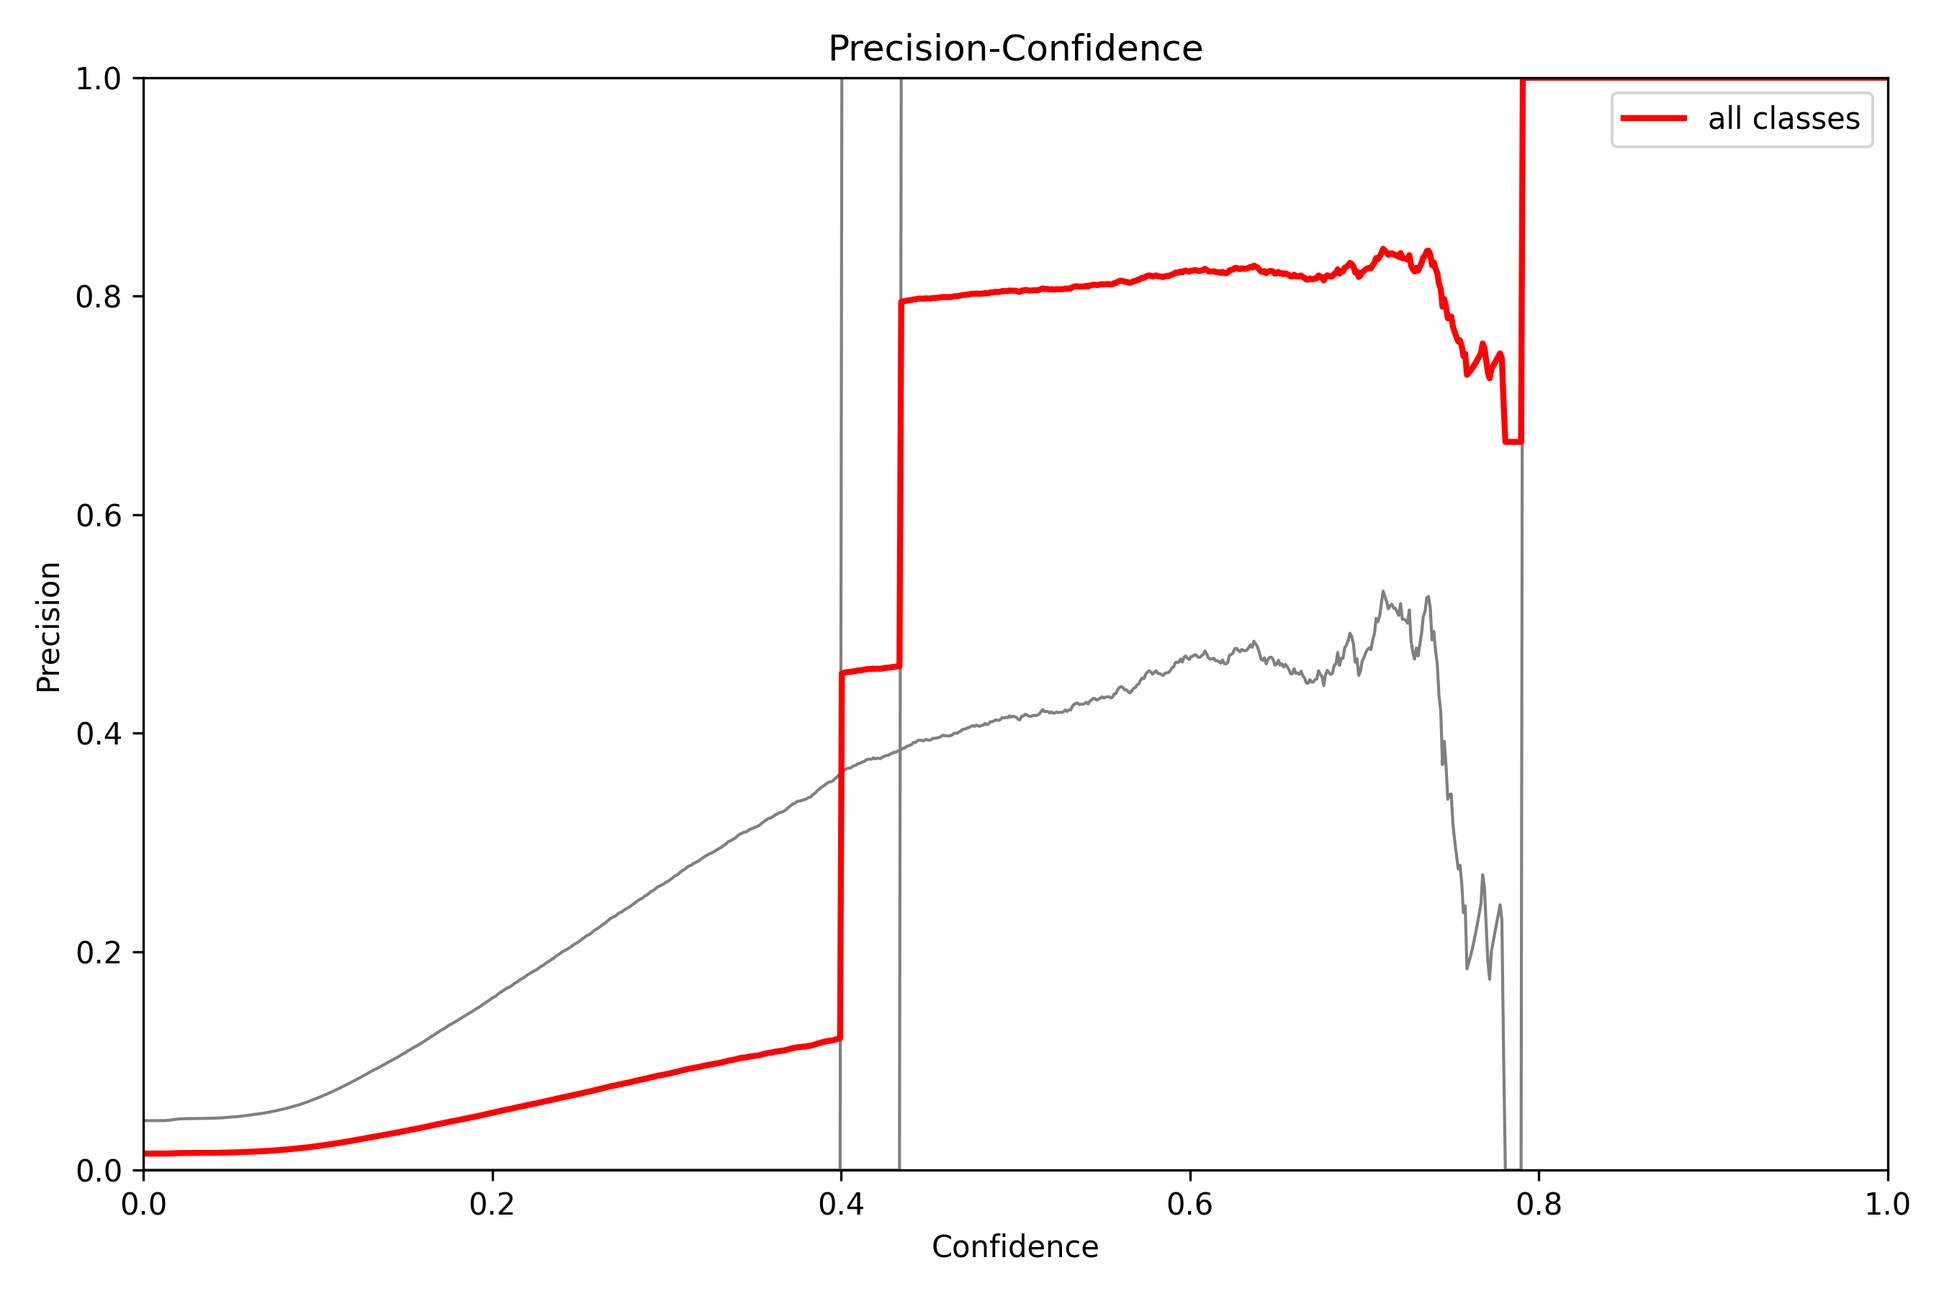
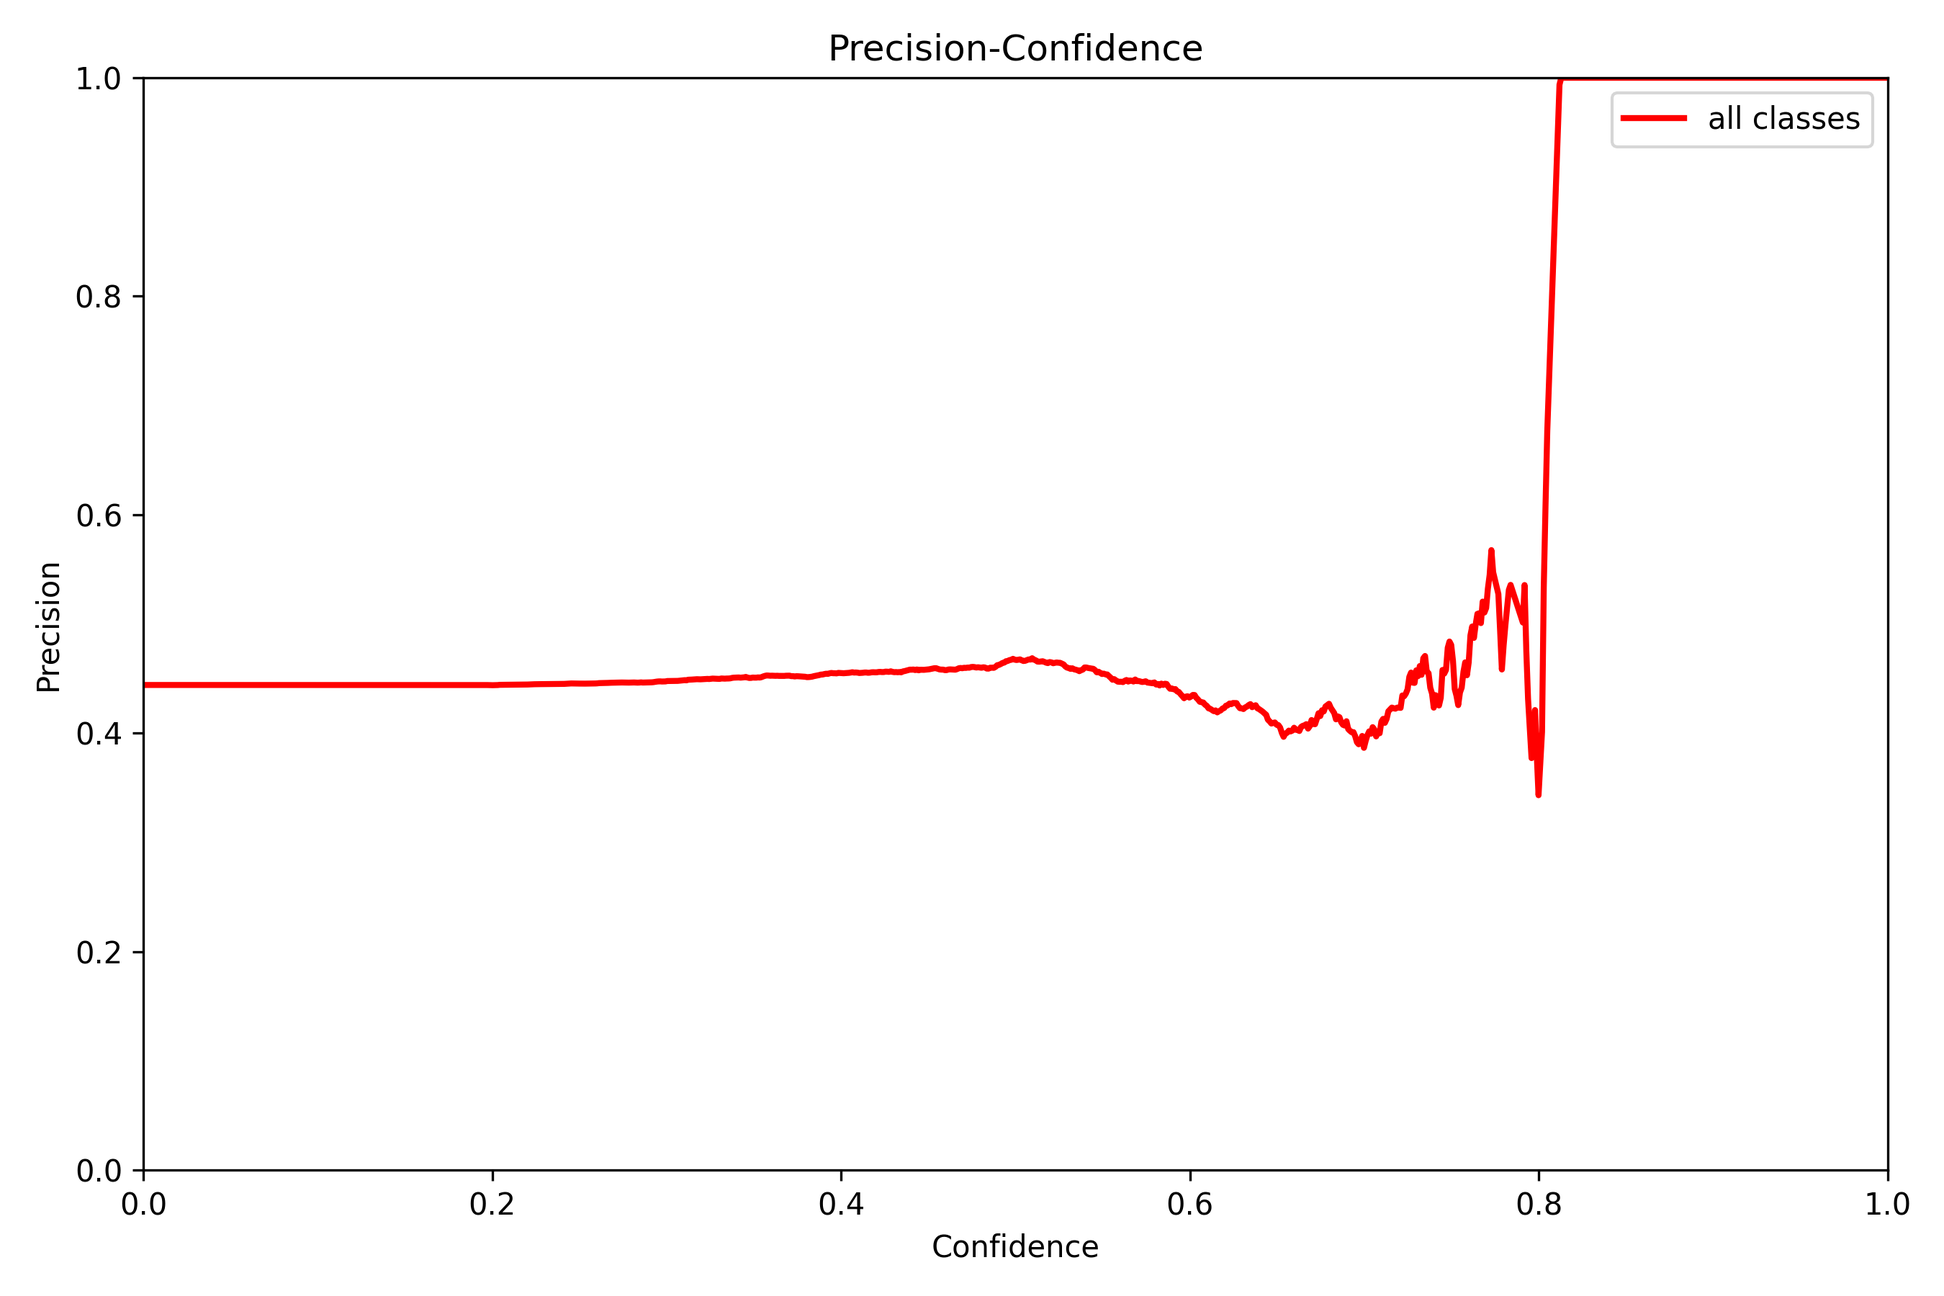
fcos

diff --git a/loss/fcos_loss.py b/loss/fcos_loss.py
@@ -4,10 +4,11 @@ from utils import xyxy2xywhn, xyxy2xywh, xywh2xyxy, reduce_mean, gather, get_loc
 from utils import gpu_CIoU
 from utils import gpu_iou, gpu_DIoU, gpu_Giou
 from torch.nn import functional as F
+import math
 
 __all__ = ['FCOSLoss']
 
-INF = 1000000.0
+INF = 10000000000.0
 
 
 def smooth_bce(eps=0.1):  # https://github.com/ultralytics/yolov3/issues/238#issuecomment-598028441
@@ -18,7 +19,6 @@ class FCOSLoss:
 
     def __init__(self, hyp, stage_num=5):
         """
-        3种loss的重要程度依次为: confidence > classification > regression 
 
         :param loss_hyp: dict
         :param data_hyp: dict
@@ -28,16 +28,17 @@ class FCOSLoss:
         self.hyp = hyp
         self.device = hyp['device']
         cls_pos_weight = torch.tensor(hyp["cls_pos_weight"], device=self.device)
-        cen_pos_weight = torch.tensor(hyp['cen_pos_weight'], device=self.device)
+        ctr_pos_weight = torch.tensor(hyp['ctr_pos_weight'], device=self.device)
         self.bce_cls = nn.BCEWithLogitsLoss(pos_weight=cls_pos_weight, reduction='none').to(self.device)
-        self.bce_cen = nn.BCEWithLogitsLoss(pos_weight=cen_pos_weight, reduction='none').to(self.device)
+        self.bce_ctr = nn.BCEWithLogitsLoss(pos_weight=ctr_pos_weight, reduction='none').to(self.device)
         self.l1_reg = nn.L1Loss()
         self.input_img_size = hyp['input_img_size']
-        self.cen_loss_balances = [4., 1., 0.4] if stage_num == 3 else [1., 2., 4., 0.2, 0.1]
+        self.ctr_loss_balances = [4., 1., 0.4] if stage_num == 3 else [1., 2., 4., 0.2, 0.1]
         self.cls_loss_balances = [4., 1., 0.4] if stage_num == 3 else [1., 2., 4., 0.2, 0.1]
         self.reg_loss_balances = [4., 1., 0.4] if stage_num == 3 else [1., 2., 4., 0.2, 0.1]
+        self.fpn_loss_balances = [0.1, 0.5, 1.0, 0.5, 0.1]
         self.num_stage = stage_num
-        self.positive_smooth_cls, self.negative_smooth_cls = smooth_bce(0.0)
+        self.positive_smooth_cls, self.negative_smooth_cls = smooth_bce(self.hyp['class_smooth_factor'])
         self.radius = hyp['center_sampling_radius']
         self.grids = None
 
@@ -103,20 +104,17 @@ class FCOSLoss:
         num_level = len(cls_fms)
         targets = targets_batch.clone().detach()
 
-        self.strides = [2**(3+i) for i in range(num_level)]
-
         fm_shapes  = [(f.size(2), f.size(3)) for f in cls_fms]
         self.grids = self.make_grid(fm_shapes) if self.grids is None else self.grids  # [x, y]
 
         # [[-1, 64], [64, 128], [128, 256], [256, 512], [512, INF]]
-        self.object_sizes_of_interest = self.get_regression_range_of_each_level(num_level)
+        self.object_sizes_of_interest = self.get_regression_range_of_each_level(fm_shapes)
 
-        tot_reg_loss, tot_cls_loss, tot_cen_loss = [], [], []
+        tot_reg_loss, tot_cls_loss, tot_ctr_loss = [], [], []
         target_num = 0
         for s in range(len(cls_fms)):  # each stage
-            stage_reg_loss, stage_cls_loss, stage_cen_loss = [], [], []
+            stage_reg_loss, stage_cls_loss, stage_ctr_loss = [], [], []
             grid = self.grids[s]  # (h, w, 2)
-            stride = self.strides[s]
             for b in range(batch_size):  # each image
                 pred_cls = cls_fms[s][b]  # (num_class, h, w)
                 pred_reg = reg_fms[s][b]  # (4, h, w)
@@ -124,65 +122,67 @@ class FCOSLoss:
                 tar_box = targets[b, targets[b, :, 4] >= 0, :4]  # (n, 4)
                 tar_cls = targets[b, targets[b, :, 4] >= 0, 4]  # (n,)
                 reg_obj_size = self.object_sizes_of_interest[s]
+                stride = self.input_img_size[0] / cls_fms[s].size(2)
                 # pos_idx: tuple; reg_tar: (m, 4); cls_tar: (m,); cen_tar: (m,); pos_num: m
-                pos_idx, reg_tar, cls_tar, cen_tar, pos_num = self.build_targets(grid, tar_box, tar_cls, reg_obj_size, stride)
+                pos_idx, reg_tar, cls_tar, ctr_tar, pos_num = self.build_targets(grid, tar_box, tar_cls, reg_obj_size, stride)
                 target_num += pos_num
                 
-                tmp_pred_cls = pred_cls.permute(1, 2, 0)  # (h, w, num_class)
-                tmp_pred_cen = pred_cen.permute(1, 2, 0) # (h, w, 1)
-                tmp_pred_reg = pred_reg.permute(1, 2, 0)  # (h, w, 4)
+                tmp_pred_cls = pred_cls.permute(1, 2, 0).contiguous()  # (h, w, num_class)
+                tmp_pred_ctr = pred_cen.permute(1, 2, 0).contiguous() # (h, w, 1)
+                tmp_pred_reg = pred_reg.permute(1, 2, 0).contiguous()  # (h, w, 4)
                 tmp_tars_cls = torch.ones_like(tmp_pred_cls) * self.negative_smooth_cls  # (h, w, num_class)
                 if pos_num > 0:
                     # --------------------------------------------------------------------------------- centerness loss
-                    tmp_tars_cen = torch.zeros_like(tmp_pred_cen)
-                    tmp_tars_cen[(pos_idx[0], pos_idx[1])] = cen_tar.unsqueeze(dim=-1).type_as(tmp_pred_cen)
-                    stage_cen_loss.append(self.bce_cen(tmp_pred_cen.reshape(-1, 1), tmp_tars_cen.reshape(-1, 1)).sum() / max(pos_num, 1.0))
+                    tmp_tars_cen = torch.zeros_like(tmp_pred_ctr)
+                    tmp_tars_cen[(pos_idx[0], pos_idx[1])] = ctr_tar.unsqueeze(dim=-1).type_as(tmp_pred_ctr)
+                    stage_ctr_loss.append(self.bce_ctr(tmp_pred_ctr.reshape(-1, 1), tmp_tars_cen.reshape(-1, 1)).sum() / pos_num)
 
                     # --------------------------------------------------------------------------------- regression loss
-                    ctrness_targets_sum = cen_tar.sum()
-                    loss_denorm = max(ctrness_targets_sum.item(), 1e-6)
-                    stage_reg_loss.append(self.compute_iou_loss(tmp_pred_reg[(pos_idx[0], pos_idx[1])], reg_tar, cen_tar) / loss_denorm)
+                    loss_denorm = max(ctr_tar.sum().item(), 1e-6)
+                    stage_reg_loss.append(self.compute_iou_loss(tmp_pred_reg[(pos_idx[0], pos_idx[1])], reg_tar, ctr_tar) / loss_denorm)
                     
                     # --------------------------------------------------------------------------------- classification loss
                     tmp_tars_cls[(pos_idx[0], pos_idx[1], cls_tar.long())] = self.positive_smooth_cls  # foreground class
                 else:
                     # --------------------------------------------------------------------------------- classification loss
-                    stage_cen_loss.append(tmp_pred_cen.new_tensor(0.0))
+                    stage_ctr_loss.append(tmp_pred_ctr.new_tensor(0.0))
                     stage_reg_loss.append(tmp_pred_reg.new_tensor(0.0))
 
-                focal = self.focal_loss_factor(tmp_pred_cls.float().reshape(-1, self.hyp['num_class']), 
-                                               tmp_tars_cls.float().reshape(-1, self.hyp['num_class'])) 
-                cls_loss = self.bce_cls(tmp_pred_cls.float().reshape(-1, self.hyp['num_class']), 
-                                        tmp_tars_cls.float().reshape(-1, self.hyp['num_class']))
-                cls_loss = (cls_loss * focal).sum() / max(pos_num, 1.0)
+                focal = self.focal_loss_factor(tmp_pred_cls.float().reshape(-1, self.hyp['num_class']), tmp_tars_cls.float().reshape(-1, self.hyp['num_class'])) 
+                cls_loss = self.bce_cls(tmp_pred_cls.float().reshape(-1, self.hyp['num_class']), tmp_tars_cls.float().reshape(-1, self.hyp['num_class']))
+                # cls_loss = (cls_loss * focal).sum() / max(pos_num, tar_box.size(0))
+                cls_loss = (cls_loss * focal).mean()
                 stage_cls_loss.append(cls_loss)
 
-            balance_reg_loss, balance_cen_loss, balance_cls_loss = self.compute_balance_losses(s, 
+            balance_reg_loss, balance_ctr_loss, balance_cls_loss = self.compute_balance_losses(s, 
                                                                                                stage_reg_loss=torch.stack(stage_reg_loss, dim=0).mean(), 
-                                                                                               stage_cen_loss=torch.stack(stage_cen_loss, dim=0).mean(), 
+                                                                                               stage_ctr_loss=torch.stack(stage_ctr_loss, dim=0).mean(), 
                                                                                                stage_cls_loss=torch.stack(stage_cls_loss, dim=0).mean())
-            tot_cen_loss.append(balance_cen_loss)
+            # balance_ctr_loss *= self.fpn_loss_balances[s]
+            # balance_cls_loss *= self.fpn_loss_balances[s]
+            # balance_reg_loss *= self.fpn_loss_balances[s]
+            tot_ctr_loss.append(balance_ctr_loss)
             tot_cls_loss.append(balance_cls_loss)
             tot_reg_loss.append(balance_reg_loss)
 
         self.update_balances() 
 
         scale = 1
-        cen_loss_out = torch.stack(tot_cen_loss, dim=0).mean() * self.hyp['cen_loss_weight']
+        ctr_loss_out = torch.stack(tot_ctr_loss, dim=0).mean() * self.hyp['ctr_loss_weight']
         cls_loss_out = torch.stack(tot_cls_loss, dim=0).mean() * self.hyp['cls_loss_weight']
         reg_loss_out = torch.stack(tot_reg_loss, dim=0).mean() * self.hyp['reg_loss_weight']
-        tot_loss = (cen_loss_out + cls_loss_out + reg_loss_out) * scale
+        tot_loss = (ctr_loss_out + cls_loss_out + reg_loss_out) * scale
         
         return {'tot_loss': tot_loss, 
-                'cen_loss': cen_loss_out.detach().item() * scale, 
+                'cen_loss': ctr_loss_out.detach().item() * scale, 
                 'cls_loss': cls_loss_out.detach().item() * scale, 
                 'reg_loss': reg_loss_out.detach().item() * scale, 
                 'tar_nums': target_num}
     
-    def compute_balance_losses(self, stage, stage_reg_loss, stage_cen_loss, stage_cls_loss):
+    def compute_balance_losses(self, stage, stage_reg_loss, stage_ctr_loss, stage_cls_loss):
         if self.hyp['do_cen_loss_balance']:
-            stage_cen_loss = stage_cen_loss * self.cen_loss_balances[stage]
-            self.cen_loss_balances[stage] = self.cen_loss_balances[stage] * 0.9999 + 0.0001 / (stage_cen_loss.detach().item() if stage_cen_loss.detach().item() != 0 else 1.0)
+            stage_ctr_loss = stage_ctr_loss * self.ctr_loss_balances[stage]
+            self.ctr_loss_balances[stage] = self.ctr_loss_balances[stage] * 0.9999 + 0.0001 / (stage_ctr_loss.detach().item() if stage_ctr_loss.detach().item() != 0 else 1.0)
             
         if self.hyp['do_cls_loss_balance']:
             stage_cls_loss = stage_cls_loss * self.cls_loss_balances[stage]
@@ -192,7 +192,7 @@ class FCOSLoss:
             stage_reg_loss = stage_reg_loss * self.reg_loss_balances[stage]
             self.reg_loss_balances[stage] = self.reg_loss_balances[stage] * 0.9999 + 0.0001 / (stage_reg_loss.detach().item() if stage_reg_loss.detach().item() != 0 else 1.0)
 
-        return stage_reg_loss, stage_cen_loss, stage_cls_loss
+        return stage_reg_loss, stage_ctr_loss, stage_cls_loss
     
     def update_balances(self):
         if self.hyp['do_cen_loss_balance']:
@@ -257,11 +257,10 @@ class FCOSLoss:
             cls_tars_out = tar_cls[positive_location_idx[2]]
 
             # centerness targets
-            cen_tars_out = (reg_tars_out[:, [0, 2]].min(dim=-1)[0] / reg_tars_out[:, [0, 2]].max(dim=-1)[0]) \
-                         * (reg_tars_out[:, [1, 3]].min(dim=-1)[0] / reg_tars_out[:, [1, 3]].max(dim=-1)[0])
-            cen_tars_out = torch.sqrt(cen_tars_out)
+            ctr_tars_out = (reg_tars_out[:, [0, 2]].min(dim=-1)[0] / reg_tars_out[:, [0, 2]].max(dim=-1)[0]) * (reg_tars_out[:, [1, 3]].min(dim=-1)[0] / reg_tars_out[:, [1, 3]].max(dim=-1)[0])
+            ctr_tars_out = torch.sqrt(ctr_tars_out)
 
-            return positive_location_idx, reg_tars_out, cls_tars_out, cen_tars_out, positive_samples_num
+            return positive_location_idx, reg_tars_out, cls_tars_out, ctr_tars_out, positive_samples_num
         
         return None, None, None, None, 0
     
@@ -295,7 +294,7 @@ class FCOSLoss:
 
         # (h, w, 1, 4) & (1, 1, n, 4) -> (h, w, n, 4)
         # [-xmin, -ymin, xmax, ymax] & [x, y, -x, -y]
-        indicator = g + tar_ctr_box[None, None]  # [x-xmin, y-ymin, xmax-x, ymax-y] / [l, t, r, b]
+        indicator = g + tar_ctr_box[None, None, :, :]  # [x-xmin, y-ymin, xmax-x, ymax-y] / [l, t, r, b]
         is_in_tar = (indicator > 0).all(dim=-1)  # (h, w, n)
         return is_in_tar
 
@@ -325,16 +324,17 @@ class FCOSLoss:
             return min_area_idx
         return torch.zeros_like(is_in_tar_boxes, dtype=torch.bool)
 
-    def get_regression_range_of_each_level(self, num_level):
+    def get_regression_range_of_each_level(self, fm_shapes):
         # [[-1, 64], [64, 128], [128, 256], [256, 512], [512, INF]]
         object_sizes_of_interest = []
-        for i in range(1, num_level+1):
-            if i == 1:
-                rg = [-1, 2**(5 + i)]
-            elif i == num_level:
-                rg = [2**(5+i-1), INF]
+        for i, (fm_h, fm_w) in enumerate(fm_shapes):
+            t = math.log2(self.input_img_size[0] / fm_h) + 3
+            if i == 0:
+                rg = [-1, 2**t]
+            elif i == len(fm_shapes)-1:
+                rg = [2**(t-1), INF]
             else:
-                rg = [2**(5+(i-1)), 2**(5+i)]
+                rg = [2**(t-1), 2**t]
             object_sizes_of_interest.append(rg)
         return object_sizes_of_interest
 
@@ -365,13 +365,13 @@ class FCOSLoss:
             shape_list: [[h/8, w/8], [h/16, w/16], [h/32, w/32], [h/64, w/64], [h/128, w/128]]
         """
         grids = []
-        for s, (row_num, col_num) in enumerate(shape_list):
-            stride = self.strides[s]
-            shift_x = torch.arange(0, col_num*stride, step=stride, device=self.device, dtype=torch.float32)
-            shift_y = torch.arange(0, row_num*stride, step=stride, device=self.device, dtype=torch.float32)
+        for s, (h, w) in enumerate(shape_list):
+            stride = self.input_img_size[0] / h
+            shift_x = torch.arange(0, w*stride, step=stride, device=self.device, dtype=torch.float32)
+            shift_y = torch.arange(0, h*stride, step=stride, device=self.device, dtype=torch.float32)
             y, x = torch.meshgrid((shift_x, shift_y), indexing='ij')
             # mesh_grid: (col_num, row_num, 2) -> (row_num, col_num, 2)
-            mesh_grid = torch.stack((x, y), dim=2).reshape(row_num, col_num, 2) + stride // 2
+            mesh_grid = torch.stack((x, y), dim=2).reshape(h, w, 2) + stride // 2
             # (col_num, row_num, 2)
             grids.append(mesh_grid)
         return grids

diff --git a/trainer/eval_fcos.py b/trainer/eval_fcos.py
@@ -16,6 +16,7 @@ class FCOSEvaluator:
         self.device = hyp['device']
         self.num_class = hyp['num_class']
         self.ds_scales = [8, 16, 32, 64, 128]
+        
         self.inp_h, self.inp_w = hyp['input_img_size']
         self.use_tta = hyp['use_tta']
         self.grid_coords = [self.make_grid(self.inp_h//s, self.inp_w//s, s).float() for s in self.ds_scales]
@@ -186,7 +187,6 @@ class FCOSEvaluator:
     @torch.no_grad()
     def do_inference(self, inputs):
         preds_out = []
-        input_img_h, input_img_w = inputs.size(2), inputs.size(3)
         # cls_fms: [(b, num_class, h/8, w/8), (b, num_class, h/16, w/16), (b, num_class, h/32, w/32), (b, num_class, h/64, w/64), (b, num_class, h/128, w/128)]
         # reg_fms: [(b, 4, h/8, w/8), (b, 4, h/16, w/16), (b, 4, h/32, w/32), (b, 4, h/64, w/64), (b, 4, h/128, w/128)]
         # cen_fms: [(b, 1, h/8, w/8), (b, 1, h/16, w/16), (b, 1, h/32, w/32), (b, 1, h/64, w/64), (b, 4, h/128, w/128)]
@@ -196,7 +196,7 @@ class FCOSEvaluator:
         # (1, 1, 1, 4)
         sig = (inputs.new_tensor([-1, -1, 1, 1])[None, None, None]).contiguous()
         for i in range(len(cls_fms)):  # feature level
-            level_i_stride = self.ds_scales[i]
+            level_i_stride = self.inp_h / cls_fms[i].size(2)
             level_i_pred_cls = cls_fms[i].permute(0, 2, 3, 1).contiguous()  # (b, h, w, num_class)
             level_i_pred_reg = reg_fms[i].permute(0, 2, 3, 1).contiguous() * level_i_stride  # (b, h, w, 4) / [l, t, r, b]
             level_i_pred_cen = cen_fms[i].permute(0, 2, 3, 1).contiguous()  # (b, h, w, 1)
@@ -205,10 +205,7 @@ class FCOSEvaluator:
             fm_h, fm_w = level_i_pred_cls.size(1), level_i_pred_cls.size(2)
             
             # grid_coords: (1, h, w, 2) / 可以优化grid_coords的创建方式
-            if input_img_h == self.inp_h and input_img_w == self.inp_w:
-                level_i_grid = self.grid_coords[i].type_as(inputs)  # [x, y]
-            else:
-                level_i_grid = self.make_grid(fm_h, fm_w, level_i_stride).type_as(inputs)
+            level_i_grid = self.make_grid(fm_h, fm_w, level_i_stride).type_as(inputs)
             level_i_grid = level_i_grid.repeat(1, 1, 1, 2)  # (1, h, w, 2) -> (1, h, w, 4) / [x, y, x, y]
             
             # [x-l, y-t, x+r, y+b] -> [xmin, ymin, xmax, ymax] / (b, h, w, 4)
@@ -309,7 +306,7 @@ class FCOSEvaluator:
                 continue
 
             x[:, 5:] = x[:, 5:] * x[:, 4:5] if self.hyp['thresh_with_ctr'] else x[:, 5:]  # cls_prob = cls * cen
-            x[:, 5:] = np.sqrt(x[:, 5:])
+            
             # [xmin, ymin, xmax, ymax]
             box = x[:, :4]
             if self.hyp['mutil_label']:
@@ -340,6 +337,8 @@ class FCOSEvaluator:
             else:
                 box_offset = x[:, 5] * 0.
             bboxes_offseted = x[:, :4] + box_offset[:, None]  # M
+
+            x[:, 4] = np.sqrt(x[:, 4])
             scores = x[:, 4]
             keep_index = numba_nms(bboxes_offseted, scores, self.iou_threshold)
 

diff --git a/models/normal/fcos.py b/models/normal/fcos.py
@@ -220,19 +220,7 @@ class FCOSHead(nn.Module):
 
         self.scales = nn.ModuleList([Scale(init_value=1.0) for _ in range(5)]) if enable_head_scale else None
         self.enable_head_scale = enable_head_scale
-        self._init_weights()
 
-    def _init_weights(self):
-        for l in self.modules():
-            if isinstance(l, nn.Conv2d):
-                torch.nn.init.normal_(l.weight, std=0.01)
-                if l.bias is not None:
-                    torch.nn.init.constant_(l.bias, 0)
-
-        # initialize the bias for focal loss
-        prior_prob = 0.01
-        bias_value = -math.log((1 - prior_prob) / prior_prob)
-        torch.nn.init.constant_(self.cls_out_layer.bias, bias_value)
 
     def forward(self, x):
         """
@@ -303,6 +291,11 @@ class FCOSBaseline(nn.Module):
                     torch.nn.init.normal_(l.weight, std=0.01)
                     if l.bias is not None:
                         torch.nn.init.constant_(l.bias, 0)
+
+        # initialize the bias for focal loss
+        prior_prob = 0.01
+        bias_value = -math.log((1 - prior_prob) / prior_prob)
+        torch.nn.init.constant_(self.head.cls_out_layer.bias, bias_value)
 
     def _freeze_bn(self):
         """
